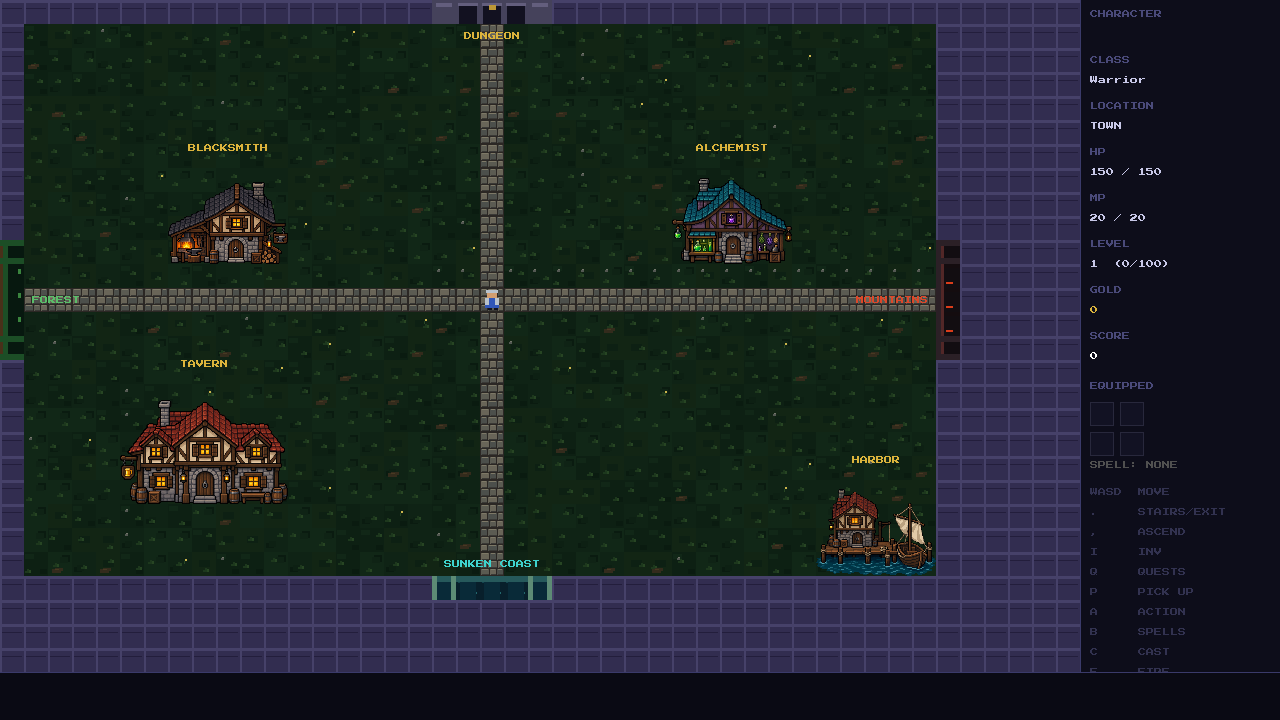
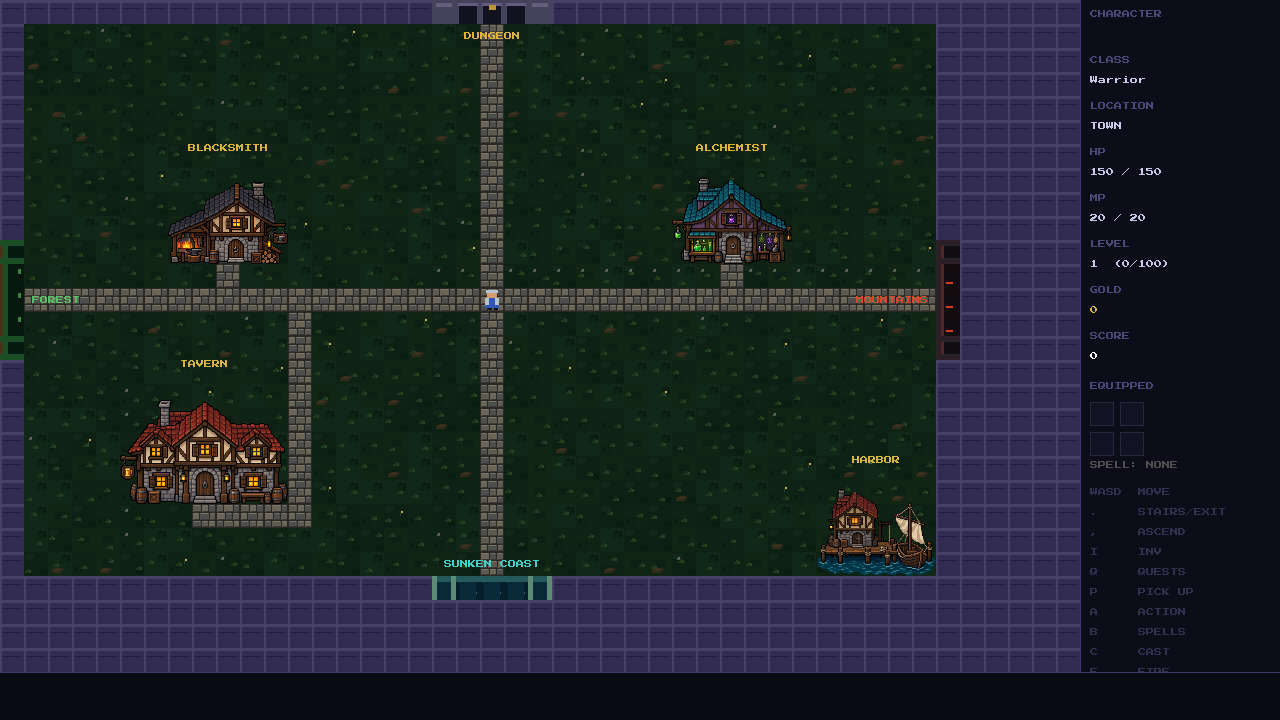
Connect town buildings to cobblestone paths

Changed region(s): [[0.125, 0.4278, 0.25, 0.7333], [0.5625, 0.3667, 0.5938, 0.3972], [0.1562, 0.3667, 0.1875, 0.3972]]

diff --git a/src/systems/save_load.c b/src/systems/save_load.c
@@ -277,7 +277,7 @@ static void deserialize_item_metadata(const cJSON *obj, Item *item) {
 int save_game(const GameState *g, int slot) {
     mkdir("saves", 0755);
     cJSON *root = cJSON_CreateObject();
-    cJSON_AddNumberToObject(root, "save_version", 46);
+    cJSON_AddNumberToObject(root, "save_version", 47);
 
     // Player
     cJSON *player = cJSON_CreateObject();
@@ -1459,6 +1459,51 @@ int load_game(GameState *g, int slot) {
             g->player.y >= TOWN_HARBOR_Y && g->player.y < TOWN_H - 1) {
             g->player.x = 28 + g->player.x - TOWN_HARBOR_X;
             g->player.y = 16 + g->player.y - TOWN_HARBOR_Y;
+        }
+    }
+
+    // Version 47 extends cobblestone lanes to the town entrances.
+    if (save_version < 47 && g->location == LOCATION_TOWN) {
+        int path_x[2] = {9, 30};
+        for (int path = 0; path < 2; path++) {
+            int occupied = 0;
+            for (int i = 0; i < g->floor_item_count; i++) {
+                FloorItem *item = &g->floor_items[i];
+                if (item->active && item->x == path_x[path] &&
+                    item->y == 11) {
+                    item->underlying_tile = TILE_TOWN_PATH;
+                    occupied = 1;
+                }
+            }
+            if (!occupied) {
+                g->map.tiles[11][path_x[path]] = TILE_TOWN_PATH;
+            }
+        }
+        for (int y = 13; y <= 21; y++) {
+            int occupied = 0;
+            for (int i = 0; i < g->floor_item_count; i++) {
+                FloorItem *item = &g->floor_items[i];
+                if (item->active && item->x == 12 && item->y == y) {
+                    item->underlying_tile = TILE_TOWN_PATH;
+                    occupied = 1;
+                }
+            }
+            if (!occupied) {
+                g->map.tiles[y][12] = TILE_TOWN_PATH;
+            }
+        }
+        for (int x = 8; x < 12; x++) {
+            int occupied = 0;
+            for (int i = 0; i < g->floor_item_count; i++) {
+                FloorItem *item = &g->floor_items[i];
+                if (item->active && item->x == x && item->y == 21) {
+                    item->underlying_tile = TILE_TOWN_PATH;
+                    occupied = 1;
+                }
+            }
+            if (!occupied) {
+                g->map.tiles[21][x] = TILE_TOWN_PATH;
+            }
         }
     }
 

diff --git a/src/renderer/game_renderer.c b/src/renderer/game_renderer.c
@@ -448,7 +448,10 @@ void game_draw(Renderer *r, GameState *g, Viewport *v) {
                     draw_restored_burial_seal(r, sx, sy); break;
                 case TILE_TOWN_FLOOR: draw_town_floor(r, sx, sy); break;
                 case TILE_TOWN_PATH: draw_town_path(r, sx, sy); break;
-                case TILE_TAVERN_DOOR: draw_town_floor(r, sx, sy); break;
+                case TILE_BLACKSMITH_DOOR:
+                case TILE_ALCHEMIST_DOOR:
+                case TILE_TAVERN_DOOR:
+                    draw_town_path(r, sx, sy); break;
                 case TILE_TAVERN_FLOOR: draw_tavern_floor(r, sx, sy); break;
                 case TILE_TAVERN_WALL: draw_tavern_wall(r, sx, sy); break;
                 case TILE_TAVERN_EXIT: draw_tavern_exit(r, sx, sy); break;
@@ -480,8 +483,6 @@ void game_draw(Renderer *r, GameState *g, Viewport *v) {
                 }
                 case TILE_SHOP_BLACKSMITH:
                 case TILE_SHOP_ALCHEMIST:
-                case TILE_BLACKSMITH_DOOR:
-                case TILE_ALCHEMIST_DOOR:
                 case TILE_WATCHTOWER:
                 case TILE_TAVERN: draw_town_floor(r, sx, sy); break;
                 case TILE_ITEM:

diff --git a/tests/test_town.c b/tests/test_town.c
@@ -137,6 +137,9 @@ void test_town_map(void) {
     ASSERT("alchemist has a walk-in doorway",
         m.tiles[10][30] == TILE_ALCHEMIST_DOOR &&
         map_is_walkable(&m, 30, 10));
+    ASSERT("cobblestone paths reach both shop doors",
+        m.tiles[11][9] == TILE_TOWN_PATH &&
+        m.tiles[11][30] == TILE_TOWN_PATH);
     ASSERT("shop facades remain solid away from their doors",
         !map_is_walkable(&m, 7, 7) && !map_is_walkable(&m, 28, 7));
     ASSERT("tavern occupies southwest town lot",
@@ -147,6 +150,10 @@ void test_town_map(void) {
         !map_is_walkable(&m, 5, 16));
     ASSERT("tavern doorway is walkable",
         map_is_walkable(&m, 8, 20));
+    ASSERT("cobblestone lane reaches the south-facing tavern door",
+        m.tiles[13][12] == TILE_TOWN_PATH &&
+        m.tiles[21][12] == TILE_TOWN_PATH &&
+        m.tiles[21][8] == TILE_TOWN_PATH);
     ASSERT("harbor reaches the southeast corner of the town green",
         m.tiles[20][34] == TILE_WATCHTOWER &&
         m.tiles[TOWN_H - 2][TOWN_W - 2] == TILE_WATCHTOWER);

diff --git a/src/game/map.c b/src/game/map.c
@@ -895,12 +895,14 @@ void map_generate_town(Map *m, int *spawn_x, int *spawn_y) {
         for (int dx = 0; dx < 5; dx++)
             m->tiles[7 + dy][7 + dx] = TILE_SHOP_BLACKSMITH;
     m->tiles[10][9] = TILE_BLACKSMITH_DOOR;
+    m->tiles[11][9] = TILE_TOWN_PATH;
 
     // Alchemist at (28, 7) — 5x4 tiles
     for (int dy = 0; dy < 4; dy++)
         for (int dx = 0; dx < 5; dx++)
             m->tiles[7 + dy][28 + dx] = TILE_SHOP_ALCHEMIST;
     m->tiles[10][30] = TILE_ALCHEMIST_DOOR;
+    m->tiles[11][30] = TILE_TOWN_PATH;
 
     // Tavern at (5, 16) — 7x5 tiles.
     for (int dy = 0; dy < 5; dy++) {
@@ -909,6 +911,13 @@ void map_generate_town(Map *m, int *spawn_x, int *spawn_y) {
         }
     }
     m->tiles[20][8] = TILE_TAVERN_DOOR;
+    // The entrance faces south, so route the lane around the east wall.
+    for (int y = 13; y <= 21; y++) {
+        m->tiles[y][12] = TILE_TOWN_PATH;
+    }
+    for (int x = 8; x < 12; x++) {
+        m->tiles[21][x] = TILE_TOWN_PATH;
+    }
 
     map_place_town_harbor(m);
 
